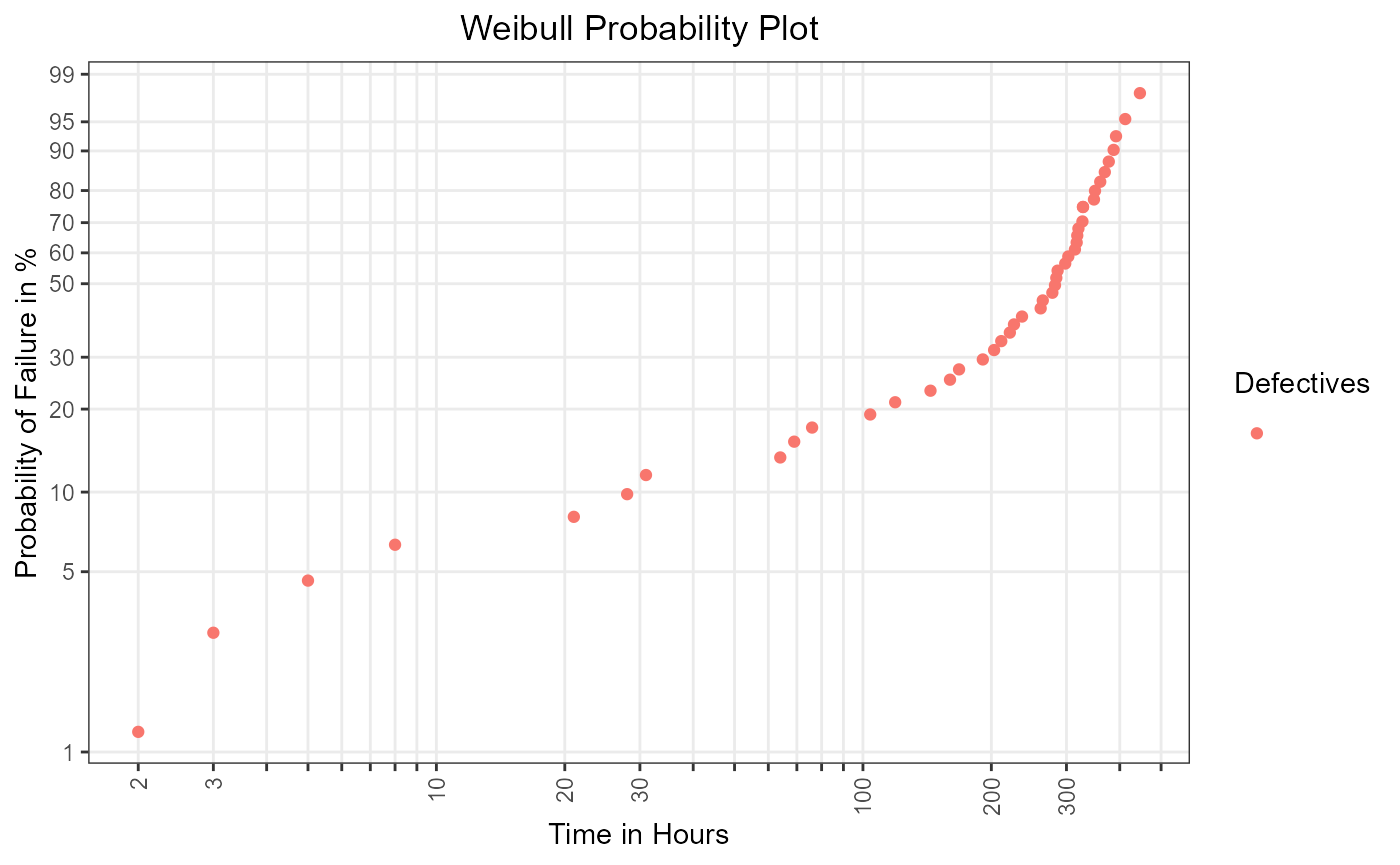
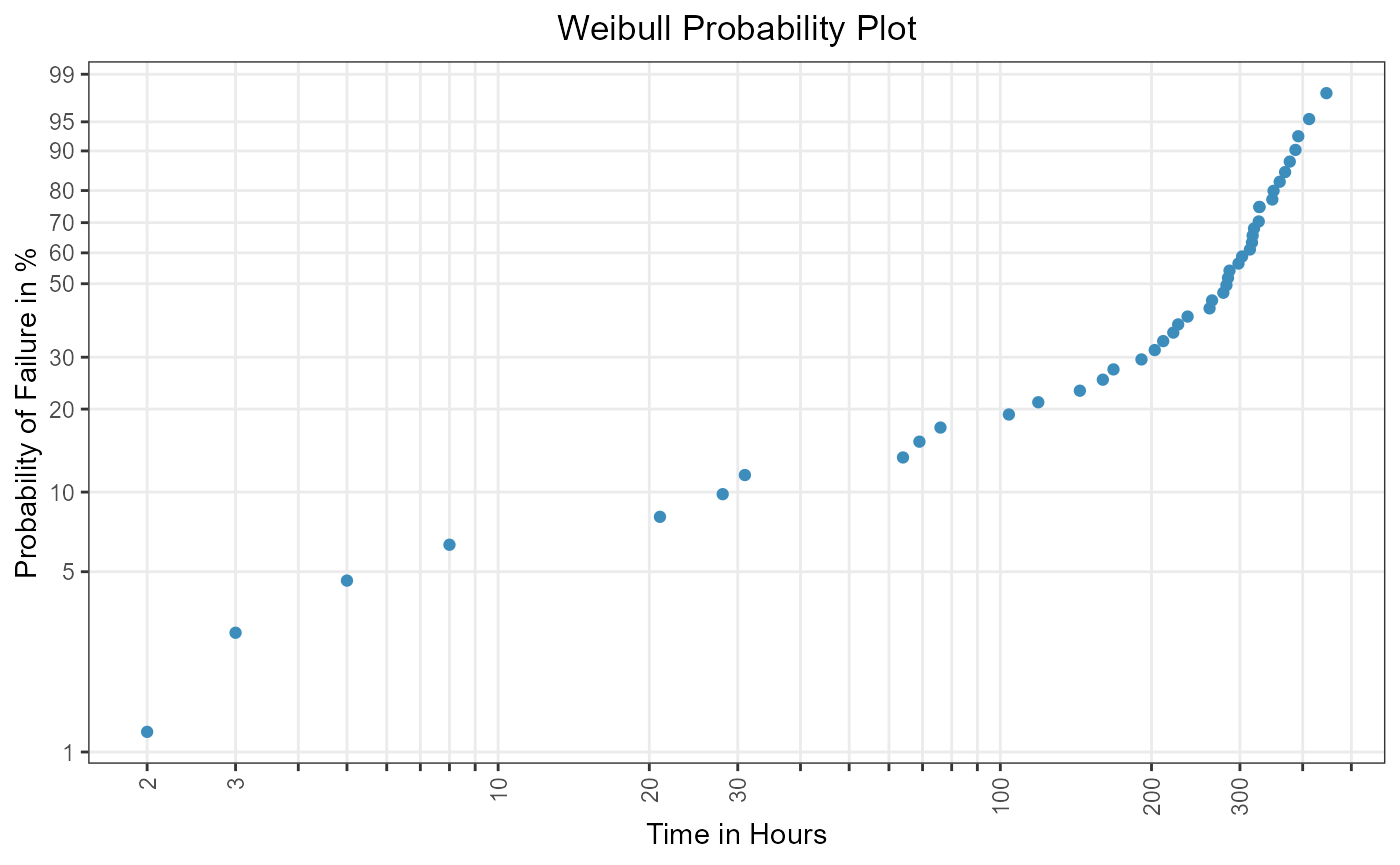
Fix ggplot color (#164)

diff --git a/docs/articles/Life_Data_Analysis_Part_III.html b/docs/articles/Life_Data_Analysis_Part_III.html
@@ -87,7 +87,7 @@
                         <h4 class="author">Tim-Gunnar Hensel</h4>
                         <h4 class="author">David Barkemeyer</h4>
             
-            <h4 class="date">2020-12-27</h4>
+            <h4 class="date">2020-12-29</h4>
       
       <small class="dont-index">Source: <a href="https://github.com/Tim-TU/weibulltools/blob/master/vignettes/Life_Data_Analysis_Part_III.Rmd"><code>vignettes/Life_Data_Analysis_Part_III.Rmd</code></a></small>
       <div class="hidden name"><code>Life_Data_Analysis_Part_III.Rmd</code></div>

diff --git a/docs/articles/Life_Data_Analysis_Part_II.html b/docs/articles/Life_Data_Analysis_Part_II.html
@@ -87,7 +87,7 @@
                         <h4 class="author">Tim-Gunnar Hensel</h4>
                         <h4 class="author">David Barkemeyer</h4>
             
-            <h4 class="date">2020-12-27</h4>
+            <h4 class="date">2020-12-29</h4>
       
       <small class="dont-index">Source: <a href="https://github.com/Tim-TU/weibulltools/blob/master/vignettes/Life_Data_Analysis_Part_II.Rmd"><code>vignettes/Life_Data_Analysis_Part_II.Rmd</code></a></small>
       <div class="hidden name"><code>Life_Data_Analysis_Part_II.Rmd</code></div>

diff --git a/docs/articles/Life_Data_Analysis_Part_I.html b/docs/articles/Life_Data_Analysis_Part_I.html
@@ -87,7 +87,7 @@
                         <h4 class="author">Tim-Gunnar Hensel</h4>
                         <h4 class="author">David Barkemeyer</h4>
             
-            <h4 class="date">2020-12-27</h4>
+            <h4 class="date">2020-12-29</h4>
       
       <small class="dont-index">Source: <a href="https://github.com/Tim-TU/weibulltools/blob/master/vignettes/Life_Data_Analysis_Part_I.Rmd"><code>vignettes/Life_Data_Analysis_Part_I.Rmd</code></a></small>
       <div class="hidden name"><code>Life_Data_Analysis_Part_I.Rmd</code></div>
